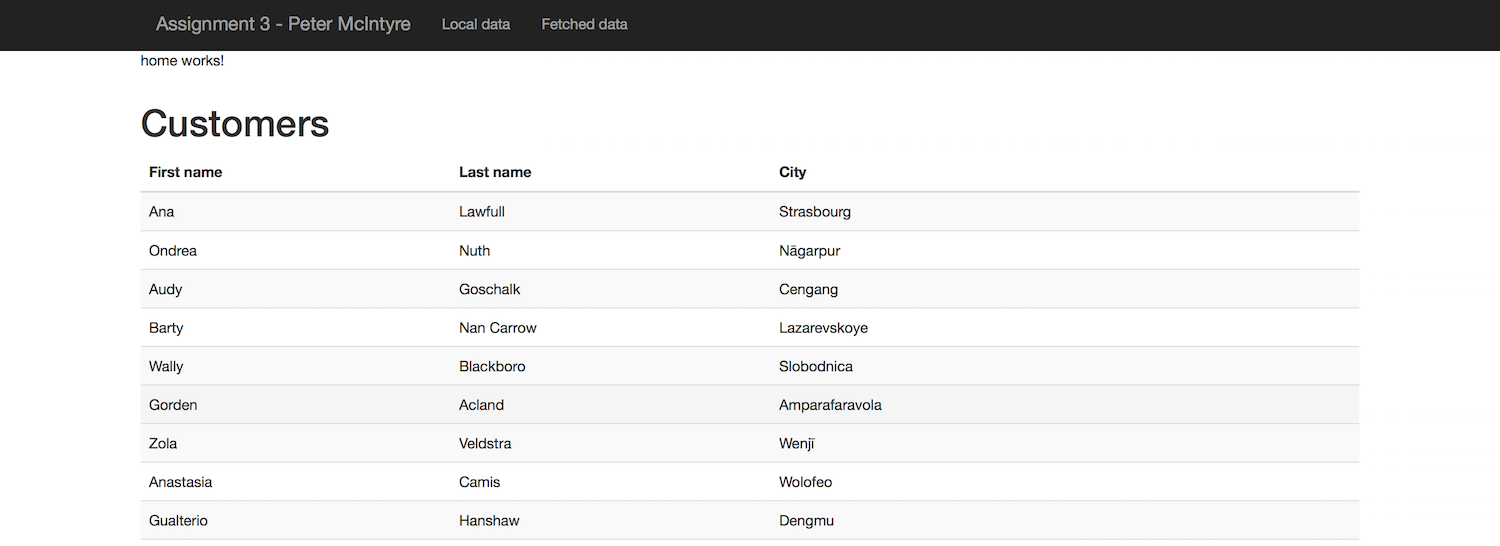
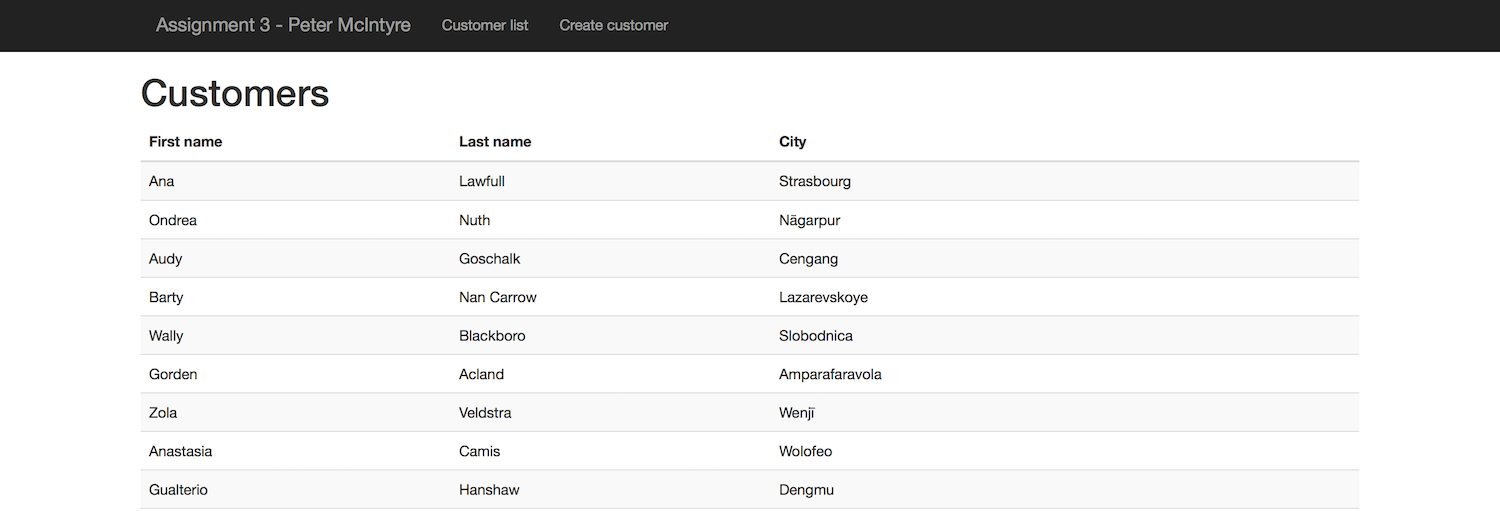
A3 edits

diff --git a/graded-work/assign3.md b/graded-work/assign3.md
@@ -346,7 +346,7 @@ Also, add `<meta>` tags for author and description, similar to those generated b
 
 #### Plan your components
 
-As always, we will need some kind of a heading and/or navigation menu. For this app, it's OK to use only a nav menu. We will need a footer too (for your academic honesty statement). 
+As always, we will need some kind of a heading and/or navigation menu. For this app, it's OK to use only a nav menu. We will need a footer too (for your academic honesty statement). And a "not found" component.  
 
 For content areas, we will need the following:
 * home, which is a landing view 
@@ -478,6 +478,56 @@ In this or other components, if you need different things done, then 1) add meth
 After you edit the customers component HTML template, it's possible that your work will look something like this, if you're rendering the content as a table:
 
 ![Customers view, initial](../media/a3/p2-customers-v1.png)
+
+<br>
+
+#### Brief introduction to routing
+
+At this point in time, you have a customer list component. Recall that you also have a "home" component. Let's introduce routing, so that a browser user can display each view by clicking on links in the nav menu. 
+
+This section is a *brief* introduction to routing, and it covers only the easy-to-do essentials. Later in the course, you will learn more about routing. Let's get started.
+
+<br>
+
+**Initialize routing**
+
+When you created this project, you included the `--routing` option on the `ng new...` command. That did a few things:
+1. It created an "app routing module", `app-routing.module.ts`
+2. In the app module `app.module.ts`, it imported the app routing module
+3. In the app component HTML template, it added a custom element, `<router-outlet>` 
+
+<br>
+
+**Edit the app component HTML template**
+
+Earlier, you added the custom elements to the app component HTML template, just to make them appear in the view. 
+
+Now, the router will do that job. So, remove the custom elements. The idea is that the router will inject/insert content from the routed component into the `<router-outlet>` element. After editing, it may look something like this:
+
+![Customers view, initial](../media/a3/p2-routing-app-markup.png)
+
+<br>
+
+**Add route descriptors to the app routing module**
+
+In an Angular app, route descriptors are added to the app routing module, `app-routing.module.ts`. It has a "routes" array, which starts out empty. *We* add route descriptors to this array, to map URL segments to components. 
+
+A route is an object ([see the docs](https://angular.io/api/router/Route)) with properties. Simple routed components need a *path* and *component* defined. Also, we always define an empty route, and a not found route.
+
+Before defining a route to a component, make sure that you import the component into the app routing module. 
+
+Let's start with a getting-started configuration for our project #2. (We will add a few more routes later.) The "routes" array will look something like this:
+
+![Customers view, initial](../media/a3/p2-routing-routes-v1.png)
+
+<br>
+
+Notice a few things about the routes:
+* The "home" landing page is included (makes sense, right?)
+* Routes for the components that do not need any input data are defined here (later we'll add to this list)
+* The sequence in which the routes appear matters - make sure that you place the empty route and the not found route at the end of the array
+
+( more to come )
 
 <br>
 
